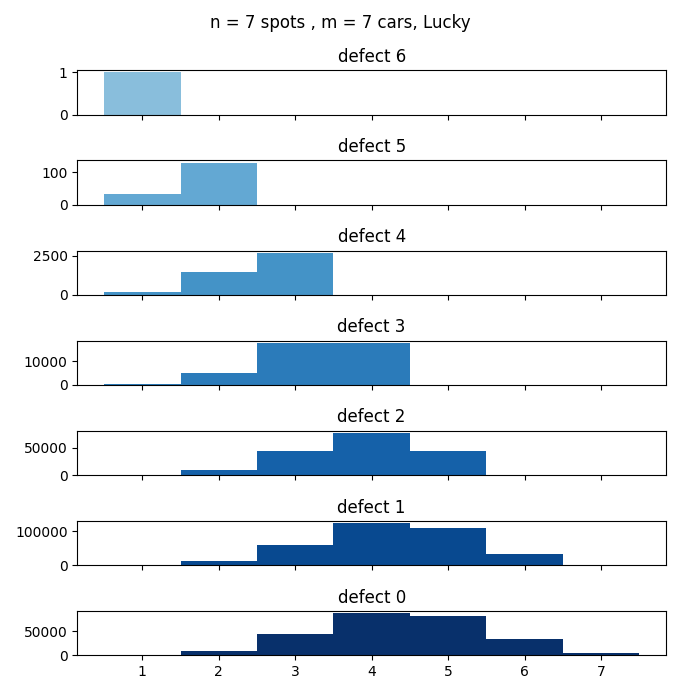
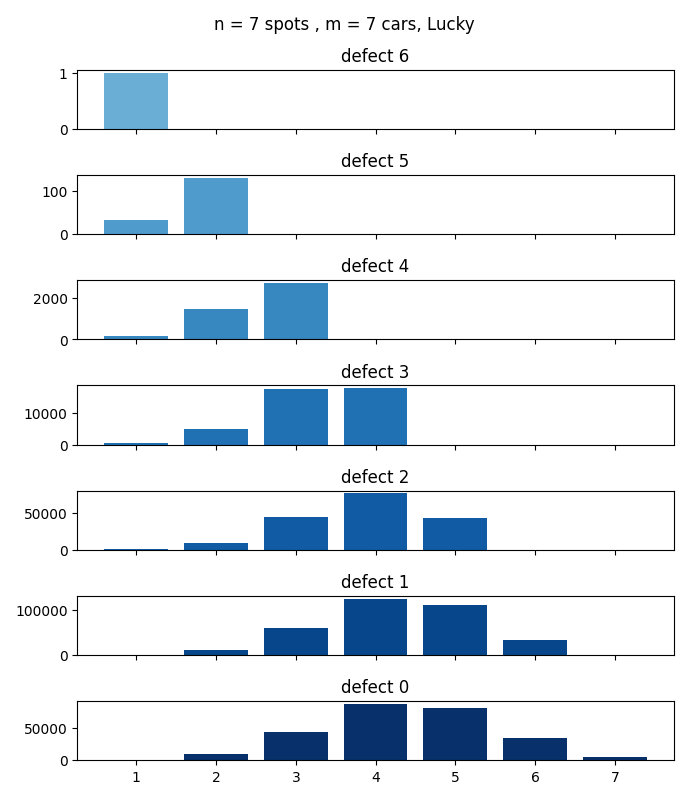
More Modular
Modified the code in ploting to make things more modular by creating the
plot_counts_by_defect method, and making all of the other methods rely on this method

Now that this code exists, the naming and structure for the other methods feels really silly

I should modify this by making a set of methods which generate counts (and labels when necessary)
Also it would be great to make something similar to last summer in terms of automatic saving

diff --git a/Ploting.py b/Ploting.py
@@ -49,42 +49,20 @@ class Ploting:
 
         m = m or n
 
-        # count is 2d array
-        # first index represents the defect - m possibilities
-        # second index represents the preference of the car - n possibilities
-        #                        or the number of lucky cars - m possibilities
+        # count is 2d array - formatted to pass to plot_counts_by_defect
         counts = [[0]*(n if stat == "pref" else m) for i in range(m)]
-        hist_data = [[] for i in range(m)]
 
         # calculate counts
         park = Park([Car(1) for i in range(m)], n)
         for i in range(n**m):
             if stat == "pref":
                 counts[m - park.parkability()][park.cars[index].preference-1] += 1
-                hist_data[m - park.parkability()].append(park.cars[index].preference)
             elif stat == "lucky":
                 counts[m - park.parkability()][park.lucky() - 1] += 1
-                hist_data[m - park.parkability()].append(park.lucky())
             park.next()
         
-        print(counts)
-
-        # plot counts - seperate plots
-        bins =[.5 + i for i in range(len(counts[0]) + 1)]
-        colors = [self.cm((len(hist_data)*1.5 - i)/(len(hist_data)*1.5)) for i in range(len(hist_data))]
-
-        fig, axs = plt.subplots(len(counts), 1, sharex=True, tight_layout=True, figsize = (5, 6))
-        fig.suptitle( "n = " + str(n) + " spots , m = " + str(m) + " cars, " + ("Preference" if stat == "pref" else "Lucky"))
-        for i in range(len(counts)):
-            num, bins, patches = axs[len(axs) - 1 - i].hist(hist_data[i], bins = bins, color = colors[i])
-            axs[len(axs) - 1 - i].set_title("defect " + str(i))
-        
-        # plot counts - same plot
-        fig, ax = plt.subplots(figsize =(5, 6))
-        fig.suptitle( "n = " + str(n) + " spots , m = " + str(m) + " cars, " + ("Preference" if stat == "pref" else "Lucky"))
-        ax.hist(hist_data, bins = bins, color = colors, density=True, histtype='bar', stacked=True)
-        
-        plt.show()
+        name = "n = " + str(n) + " spots , m = " + str(m) + " cars, " + ("Preference" if stat == "pref" else "Lucky")
+        self.plot_counts_by_defect(counts, name, sep = False)
 
     def num_defect_partition(self, n, m):
         """
@@ -141,56 +119,84 @@ class Ploting:
                     L.append(0)
             partition_counts.append(L)
 
-        fig, ax = plt.subplots(figsize =(5, 6))
-        fig.suptitle( "n = " + str(n) + " spots , m = " + str(m) + " cars, " + "number of orbits of $S_\lambda$")
+        labels = [Ploting.tableau_vis(p, "m") for p in partitions]
+        title = "n = " + str(n) + " spots , m = " + str(m) + " cars, " + "number of orbits of $S_\lambda$"
+        self.plot_counts_by_defect(partition_counts, title = title, labels = labels)
 
-        index = np.arange(len(partitions)) + 1
-        y_offset = np.zeros(len(partitions))
-        bar_width = .8  
+    # The method that actually does all of the plotting
+    def plot_counts_by_defect(self, counts, title = "", labels = None, categories = None, figsize = (5,6), sep = True):
+        """
+        Inputs: Counts - 2d array. First index is category, second index is value of interest, entry is counts
+                Labels - 1d array. Lables for the value of interest
+                Category - 1d array. Gives names for category
+        Output: Generates and shows 2 plots:
+            1. A stacked histogram with a table of counts underneath
+            2. A set of histgrams by defect which 
+        """
+
+        print(counts)
+        if labels != None:
+            print("labels = " + str(labels))
+
+        # default values and data validation
+        labels = labels or [i + 1 for i in range(len(counts[0]))]
+        assert len(labels) == len(counts[0])
+
+        categories = categories or ["defect " + str(i) for i in range(len(counts))]
+        assert len(categories) == len(counts)
+
+        # Figure set up
+        fig, ax = plt.subplots(figsize = figsize)
+        fig.suptitle(title)
+
+        # Bar chart variables set up 
+        index = np.arange(len(labels)) + 1
+        y_offset = np.zeros(len(labels), dtype = int)
+        if sep == True:
+            bar_width = .8
+        if sep == False: 
+            bar_width = 1  
         width = 0
-        colors = np.flip(self.cm(np.linspace(.5, 1, len(partition_counts))), 0)
+        colors = np.flip(self.cm(np.linspace(.5, 1, len(counts))), 0)
 
-        for d in range(len(partition_counts)):
-            plt.bar(index, partition_counts[d], bar_width, bottom=y_offset, color=colors[d])
-            y_offset = y_offset + partition_counts[d]
+        # Bar chart 1 - stacked
+        for d in range(len(counts)):
+            plt.bar(index, counts[d], bar_width, bottom=y_offset, color=colors[d])
+            y_offset = y_offset + counts[d]
         
-        #Table
         ax.set_xlim(-width+.5 ,len(index)+.5+width)
-            
-        totals = np.zeros(len(partition_counts[0]), dtype = int)
-        for row in partition_counts:
-            totals += row
-
-        the_table = plt.table(cellText=partition_counts + [totals],
-                            rowLabels=np.append(np.arange(len(partition_counts)), "totals"),
-                            rowColours=np.vstack([colors, [0,0,0,0]]),
-                            colLabels=[Ploting.tableau_vis(p, "m") for p in partitions],
+        
+        # Table under bar chart 1
+        # Note that at this point y_offset is an array of the totals
+        the_table = plt.table(cellText = counts + [y_offset],
+                            rowLabels  = np.append(categories, "totals"),
+                            rowColours = np.vstack([colors, [0,0,0,0]]),
+                            colLabels  = labels,
                             loc='bottom')
         
         the_table.scale(1, 1.2)
         cellDict = the_table.get_celld()
-        for i in range(0,len(partitions)):
-            cellDict[(0,i)].set_height(.1)
+        for i in range(0,len(labels)):
+            cellDict[(0,i)].set_height(.08)
         
         the_table.auto_set_font_size(False)
         the_table.set_fontsize(10) 
         
-        plt.subplots_adjust(bottom=.07 + 0.03 * len(partition_counts))
+        plt.subplots_adjust(bottom=.07 + 0.03 * len(counts))
         plt.xticks([])
 
         # SECOND FIGURE - visualizations split
         plt.figure(1)
-        fig.suptitle( "n = " + str(n) + " spots , m = " + str(m) + " cars, " + "number of orbits of $S_\lambda$")
+        fig, axs = plt.subplots(len(counts), 1, sharex=True, tight_layout=True, figsize = figsize)
+        fig.suptitle(title)
         
-        fig, axs = plt.subplots(len(partition_counts), 1, sharex=True, tight_layout=True, figsize = (5, 6))
-        for i in range(len(partition_counts)):
-            axs[len(axs) - 1 - i].bar(index, partition_counts[i], 
+        for i in range(len(counts)):
+            axs[len(axs) - 1 - i].bar(index,counts[i], bar_width,
                                         color = colors[i])
-            axs[len(axs) - 1 - i].set_title("defect " + str(i))
-        plt.xticks(index, labels = [Ploting.tableau_vis(p, "m") for p in partitions])
+            axs[len(axs) - 1 - i].set_title(categories[i])
+        plt.xticks(index, labels = labels)
         
         plt.show()
-
 
     # # # # # # # # # #
     # STATIC METHODS  #

diff --git a/Arrays.py b/Arrays.py
@@ -8,6 +8,7 @@ pref_at_i_n3 = [[8, 5, 3], [1, 4, 5], [0, 0, 1]]
 pref_at_i_n2 = [[2, 1], [0, 1]]
 pref_at_i_n1 = [[1]]
 
+num_lucky_n7 = [[720, 9792, 44176, 87296, 81136, 33984, 5040], [720, 11640, 59464, 125054, 111124, 33984, 0], [600, 9394, 44021, 76699, 43146, 0, 0], [384, 4996, 17736, 17954, 0, 0, 0], [162, 1448, 2710, 0, 0, 0, 0], [32, 130, 0, 0, 0, 0, 0], [1, 0, 0, 0, 0, 0, 0]]
 num_lucky_n6 = [[120, 1318, 4553, 6388, 3708, 720], [120, 1578, 6063, 8448, 3708, 0], [96, 1170, 3766, 3370, 0, 0], [54, 487, 901, 0, 0, 0], [16, 71, 0, 0, 0, 0], [1, 0, 0, 0, 0, 0]]
 num_lucky_n5 = [[24, 204, 504, 444, 120], [24, 244, 634, 444, 0], [18, 155, 263, 0, 0], [8, 38, 0, 0, 0], [1, 0, 0, 0, 0]]
 num_lucky_n4 = [[6, 37, 58, 24], [6, 43, 58, 0], [4, 19, 0, 0], [1, 0, 0, 0]]
